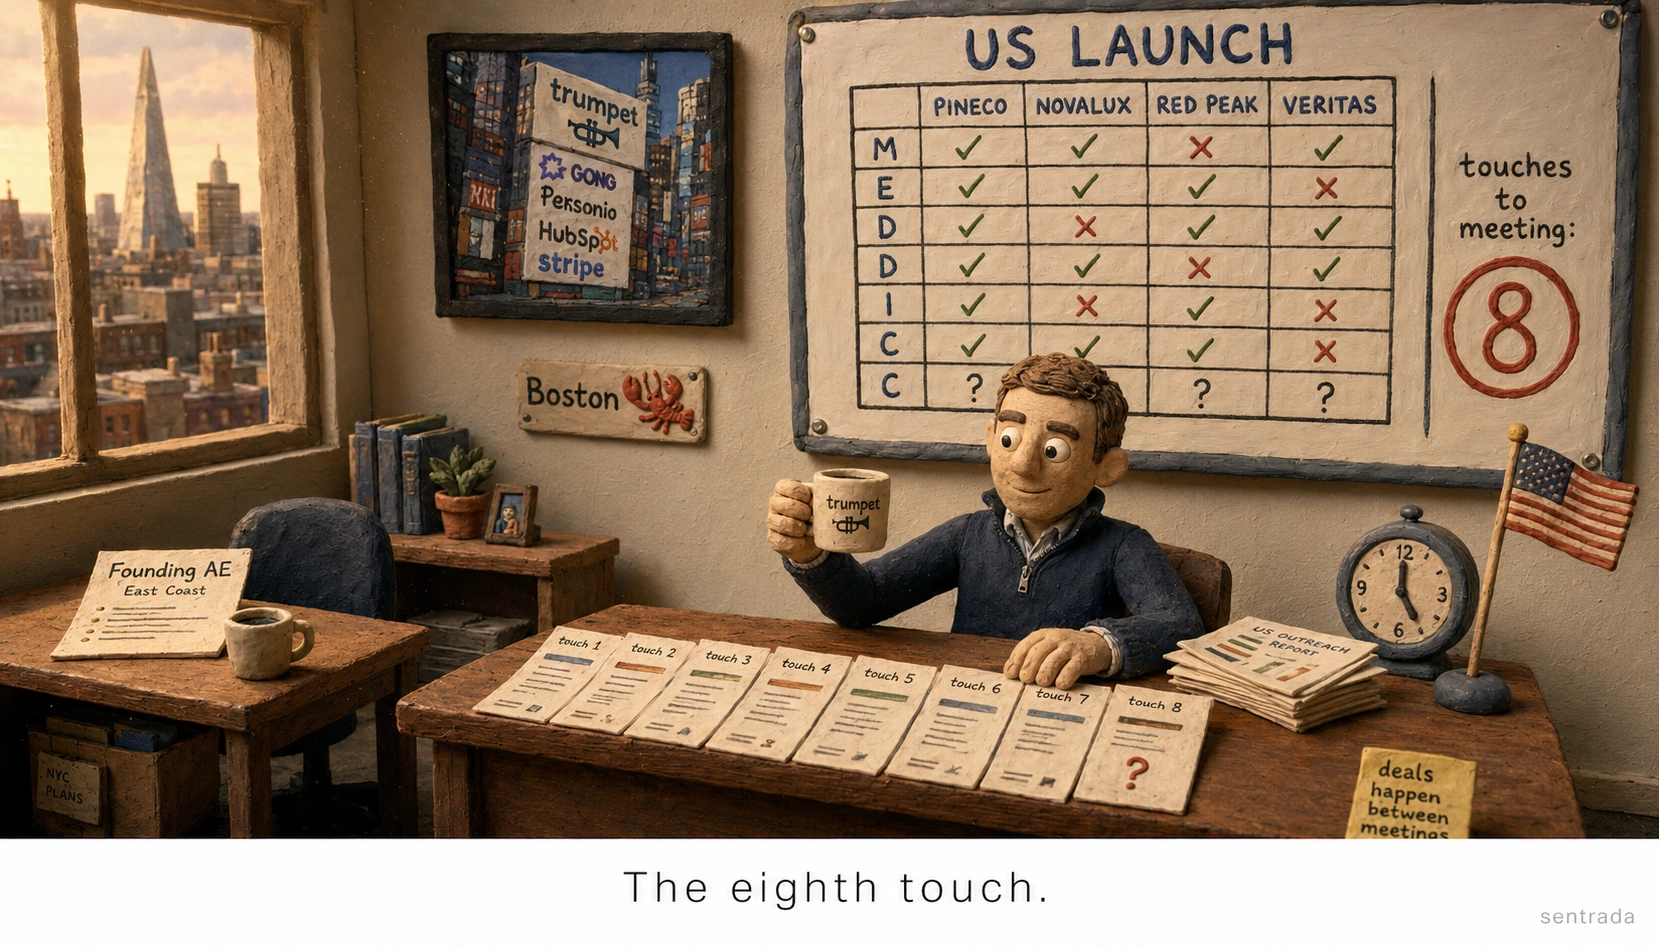
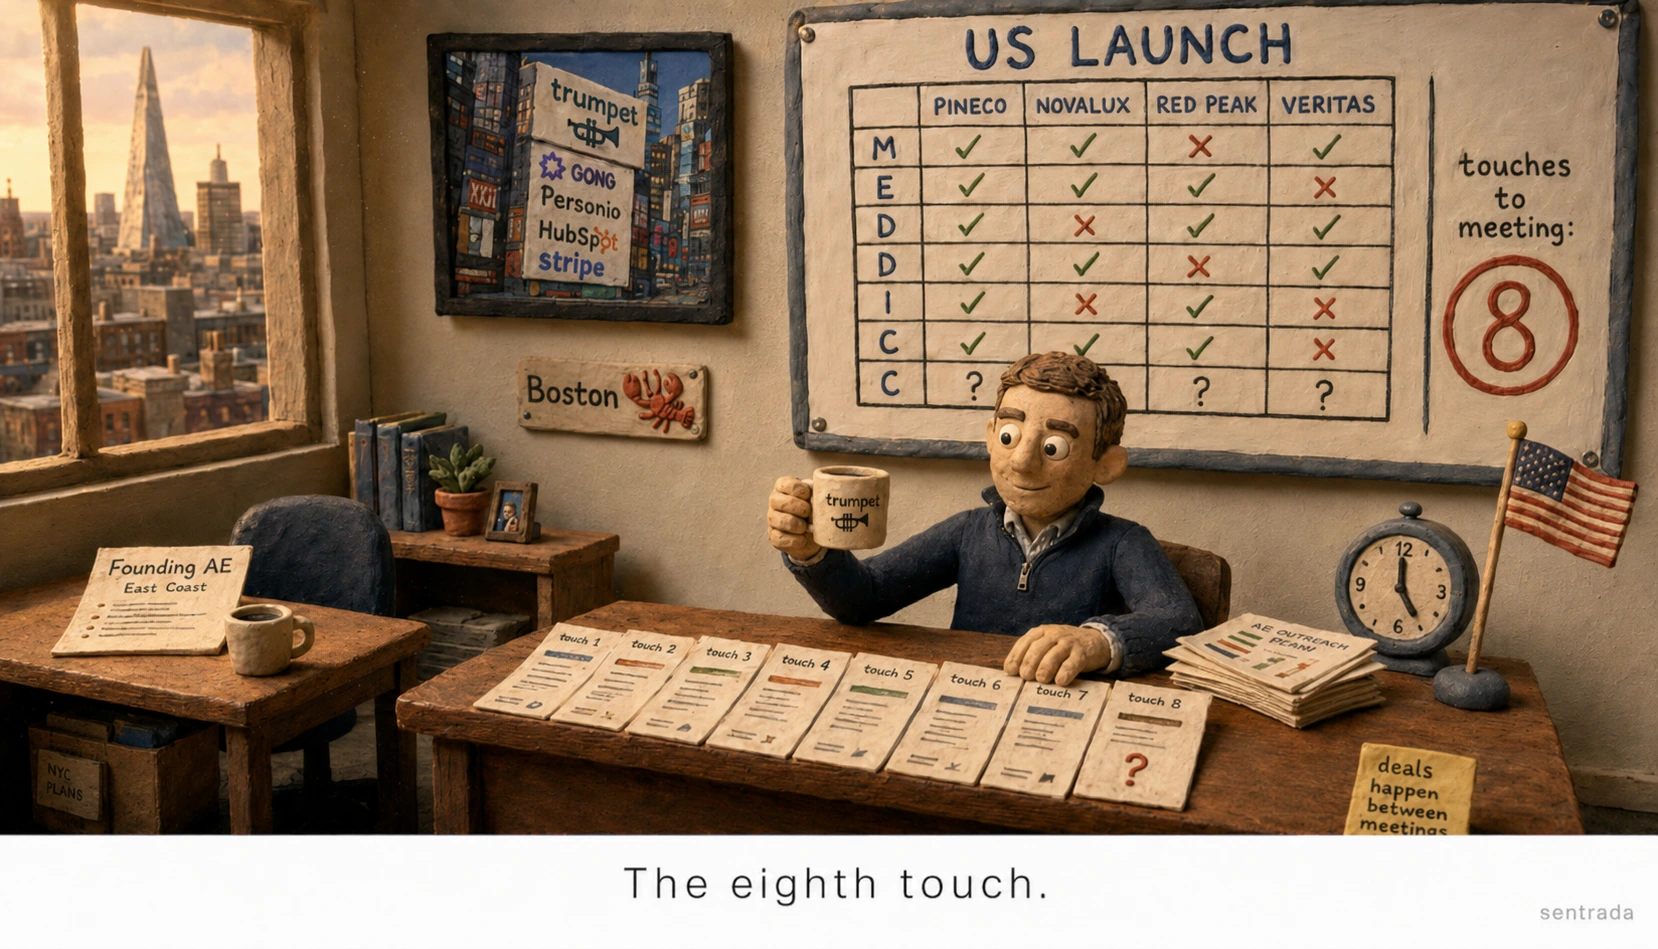
Swap Claymation image (small fix from Joe), rename to lowercase
Joe re-uploaded as "Claymation.png" with a capital C; renamed back
to "claymation.png" so the lowercase reference in the HTML still
resolves on case-sensitive filesystems.

- claymation.png: 1658x949 (essentially same as previous 1659x948,
  1px difference each way, small visual fix Joe spotted)
- claymation.webp regenerated: 1658x949, q=92, 332 KB
- claymation-sm.webp regenerated: 800x457, 84 KB
- og.png rebuilt with the new artefact
- HTML width/height bumped to 1658x949 and srcset descriptor
  bumped to 1658w for consistency

diff --git a/index.html b/index.html
@@ -85,10 +85,10 @@
         <article class="piece reveal">
           <div class="piece-img">
             <img src="assets/claymation.webp"
-                 srcset="assets/claymation-sm.webp 800w, assets/claymation.webp 1659w"
+                 srcset="assets/claymation-sm.webp 800w, assets/claymation.webp 1658w"
                  sizes="(max-width: 880px) 100vw, 33vw"
                  alt="Claymation Scene: a bespoke stop-motion scene of the prospect's world."
-                 width="1659" height="948"
+                 width="1658" height="949"
                  loading="lazy" decoding="async" />
           </div>
           <div class="piece-meta">